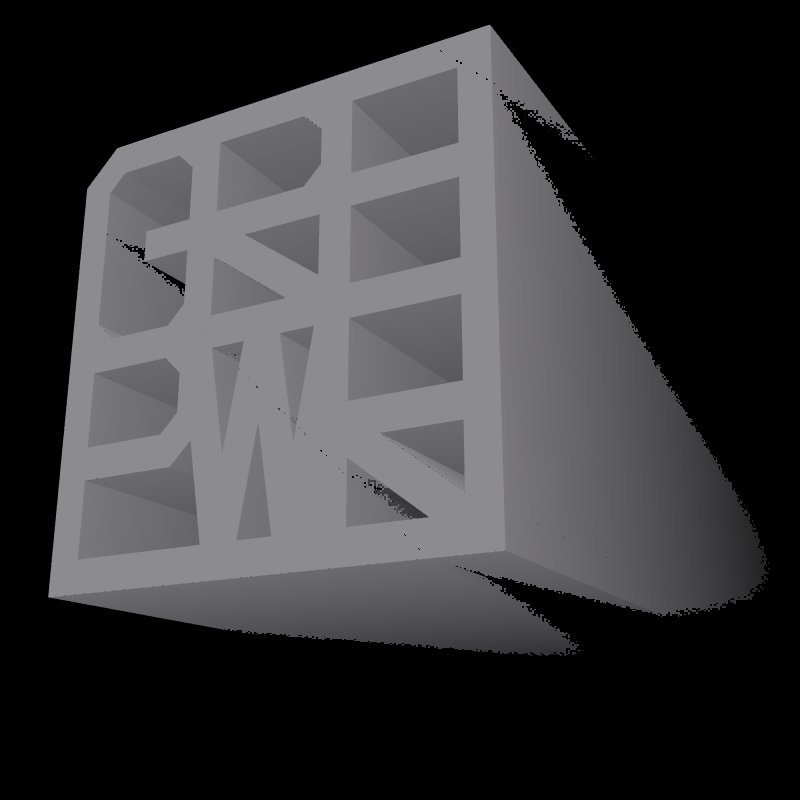
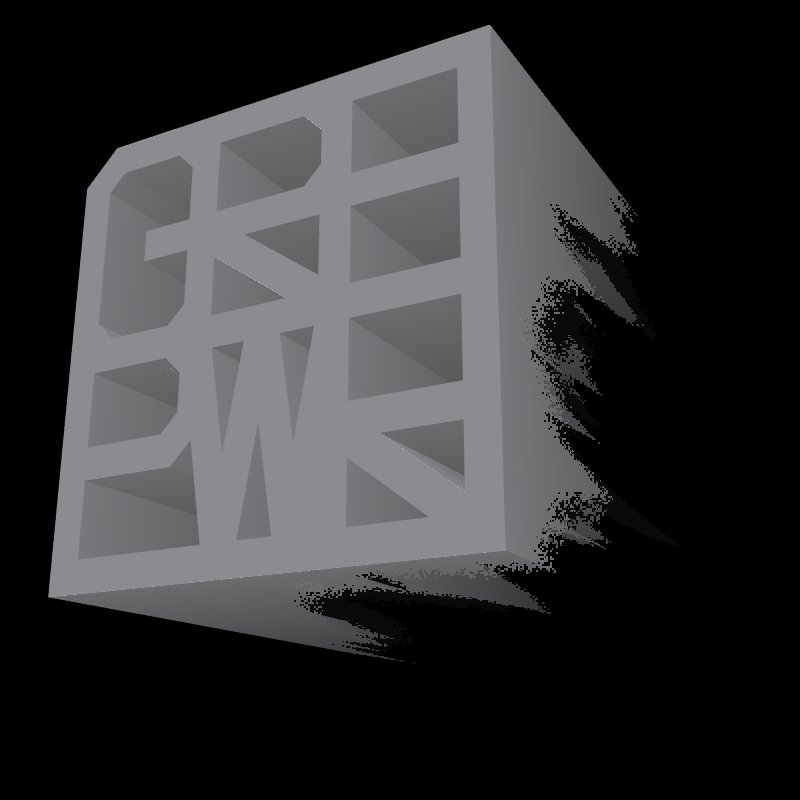
extrude: the tail is cut by ridged noise only; the function buttons are gone; poster reshot

diff --git a/src/extrude/main.ts b/src/extrude/main.ts
@@ -1,8 +1,8 @@
 // EXTRUDE: the logo pulled out into a long grey solid, the way a 2023 story showed it — flat grey
 // faces, the body running far back and sinking into the black, its tail flickering: the far end is
-// cut by a moving field, |sin| of a diagonal wave against a threshold that drifts with time (the
-// same function the old emboss shader cut its layers with), and the cut edge shivers a little every
-// frame. A finger (or the mouse) turns it a little; let go and it eases back to its pose.
+// cut by a moving field, the ridges of drifting noise (lightning-like veins), and the cut edge
+// shivers a little every frame. A finger (or the mouse) turns it a little; let go and it eases back
+// to its pose.
 // A tap presses material through the die: a swell of the cross-section, lit, runs from the face to
 // the end, and the tail shoots out to its full length behind it before the cut eats it back.
 //
@@ -14,31 +14,6 @@ import { mergeBufferGeometries } from 'three/examples/jsm/utils/BufferGeometryUt
 import { logoBars } from '../core/logo-bars'
 import { LOGO_STROKE } from '../core/logo-path'
 import './extrude.css'
-
-// --- the tail's function: picked from the row under the picture, kept in the address (?f=) --------
-const FNS = ['sin', 'plasma', 'fbm', 'warp', 'cells', 'ridge', 'tan'] as const
-const fromUrl = new URLSearchParams(location.search).get('f')
-let fnIndex = Math.max(0, FNS.indexOf((fromUrl ?? 'sin') as (typeof FNS)[number]))
-const picker = document.getElementById('fn') as HTMLElement
-function renderPicker() {
-  picker.replaceChildren(
-    ...FNS.map((name, i) => {
-      const b = document.createElement('button')
-      b.type = 'button'
-      b.textContent = name
-      b.setAttribute('aria-pressed', String(i === fnIndex))
-      b.addEventListener('click', () => {
-        fnIndex = i
-        const q = new URLSearchParams(location.search)
-        q.set('f', name)
-        history.replaceState(null, '', `${location.pathname}?${q}`)
-        renderPicker()
-      })
-      return b
-    }),
-  )
-}
-renderPicker()
 
 const LOOK = {
   /** Mark width as a share of the screen width: phone / desktop. */
@@ -91,7 +66,6 @@ const mat = new THREE.ShaderMaterial({
     far: { value: LOOK.far },
     depth: { value: D },
     time: { value: 0 },
-    fn: { value: 0 },
     pulse: { value: 99 }, // seconds since the last tap
   },
   side: THREE.DoubleSide,
@@ -124,76 +98,27 @@ const mat = new THREE.ShaderMaterial({
     varying float vDepth;
     varying vec2 vXY;
     varying float vSwell;
-    uniform float face, sideLo, sideHi, far, time, fn, pulse;
+    uniform float face, sideLo, sideHi, far, time, pulse;
 
     float hash(vec2 p) { return fract(sin(dot(p, vec2(127.1, 311.7))) * 43758.5453); }
-    vec2 hash2(vec2 p) {
-      return fract(sin(vec2(dot(p, vec2(127.1, 311.7)), dot(p, vec2(269.5, 183.3)))) * 43758.5453);
-    }
     float vnoise(vec2 p) {
       vec2 i = floor(p), f = fract(p);
       vec2 u = f * f * (3.0 - 2.0 * f);
       return mix(mix(hash(i), hash(i + vec2(1, 0)), u.x), mix(hash(i + vec2(0, 1)), hash(i + vec2(1, 1)), u.x), u.y);
     }
-    float fbm(vec2 p) {
-      float a = 0.5, s = 0.0;
-      for (int i = 0; i < 5; i++) { s += a * vnoise(p); p = mat2(1.6, 1.2, -1.2, 1.6) * p; a *= 0.5; }
-      return s / 0.97;
-    }
 
-    // How far back the body reaches at this point of the mark (0 = the face, 1 = the full length).
+    // How far back the body reaches at this point of the mark (0 = the face, 1 = the full length):
+    // the creases of drifting noise, 1 - |n| over four octaves, cubed — thin bright veins with
+    // torn, branching edges, like lightning.
     float reachAt(vec2 p, float t) {
-      if (fn < 0.5) {
-        // sin: a diagonal wave, |sin|, swung by a slower cross wave
-        float w = sin((p.x + p.y) * 3.1 + t * 1.4);
-        float c = sin((p.x - p.y) * 4.7 - t * 0.9) * 0.5 + 0.5;
-        return abs(w) * (0.5 + 0.5 * c);
-      }
-      if (fn < 1.5) {
-        // plasma: four waves at different angles and speeds, summed and folded
-        float v = sin(p.x * 5.0 + t) + sin(p.y * 6.3 - t * 1.3) + sin((p.x + p.y) * 4.1 + t * 0.7)
-          + sin(length(p - vec2(0.3 * sin(t * 0.5), 0.3 * cos(t * 0.4))) * 9.0 - t * 2.0);
-        return abs(sin(v * 1.3));
-      }
-      if (fn < 2.5) {
-        // fbm: five octaves of value noise drifting along
-        return smoothstep(0.25, 0.75, fbm(p * 3.0 + vec2(t * 0.35, -t * 0.2)));
-      }
-      if (fn < 3.5) {
-        // warp: noise sampled through noise (domain warping), slow smoke
-        vec2 q = vec2(fbm(p * 2.5 + t * 0.15), fbm(p * 2.5 + vec2(5.2, 1.3) - t * 0.12));
-        vec2 r = vec2(fbm(p * 2.5 + 4.0 * q + vec2(1.7, 9.2) + t * 0.2), fbm(p * 2.5 + 4.0 * q + vec2(8.3, 2.8)));
-        return smoothstep(0.2, 0.8, fbm(p * 2.5 + 4.0 * r));
-      }
-      if (fn < 4.5) {
-        // cells: moving Voronoi seeds; the body is long at the seeds and short at the borders
-        vec2 g = p * 5.0;
-        vec2 i = floor(g), f = fract(g);
-        float d1 = 8.0, d2 = 8.0;
-        for (int y = -1; y <= 1; y++) for (int x = -1; x <= 1; x++) {
-          vec2 o = vec2(float(x), float(y));
-          vec2 h = hash2(i + o);
-          vec2 c = o + 0.5 + 0.45 * sin(t * 0.8 + 6.2831 * h) - f;
-          float d = dot(c, c);
-          if (d < d1) { d2 = d1; d1 = d; } else if (d < d2) d2 = d;
-        }
-        return smoothstep(0.0, 0.6, sqrt(d2) - sqrt(d1));
-      }
-      if (fn < 5.5) {
-        // ridge: the creases of noise, 1 - |n|, stacked: thin bright veins like lightning
-        float s = 0.0, a = 0.6;
-        vec2 q = p * 2.2 + vec2(t * 0.25, t * 0.1);
-        for (int i = 0; i < 4; i++) { s += a * (1.0 - abs(vnoise(q) * 2.0 - 1.0)); q = mat2(1.6, 1.2, -1.2, 1.6) * q; a *= 0.5; }
-        return pow(clamp(s / 1.1, 0.0, 1.0), 3.0);
-      }
-      // tan: tangent of a travelling wave, clamped: long calm stretches broken by sudden jumps
-      float v = tan((p.x * 1.7 + p.y * 2.3) * 2.0 + t * 0.9) * 0.25 + sin(p.y * 7.0 - t * 1.7) * 0.15;
-      return clamp(abs(v), 0.0, 1.0);
+      float s = 0.0, a = 0.6;
+      vec2 q = p * 2.2 + vec2(t * 0.25, t * 0.1);
+      for (int i = 0; i < 4; i++) { s += a * (1.0 - abs(vnoise(q) * 2.0 - 1.0)); q = mat2(1.6, 1.2, -1.2, 1.6) * q; a *= 0.5; }
+      return pow(clamp(s / 1.1, 0.0, 1.0), 3.0);
     }
 
     void main() {
-      // The tail: where the body ends is a field, not a plane (one of the functions above, picked
-      // below the picture); the cut edge gets a per-pixel jitter re-rolled twelve times a second, so
+      // The tail: where the body ends is a field, not a plane (reachAt above); the cut edge gets a per-pixel jitter re-rolled twelve times a second, so
       // it flickers like the story did. Near zero the cut reaches into the face.
       float reach = 0.02 + 0.8 * reachAt(vXY, time);
       // behind the running swell the material is pushed out whole, then the cut eats back into it
@@ -289,7 +214,6 @@ function frame() {
   pivot.rotation.set(rad(LOOK.rest.x + pose.x + sway.x), rad(LOOK.rest.y + pose.y + sway.y), 0)
   pivot.position.set(-centre.x, -centre.y, 0)
   mat.uniforms.time.value = t
-  mat.uniforms.fn.value = fnIndex
   mat.uniforms.pulse.value = (performance.now() - tapAt) / 1000
   renderer.render(scene, camera)
   requestAnimationFrame(frame)

diff --git a/dist/assets/index.66b11da8.js b/dist/assets/index.66b11da8.js
@@ -1,0 +1,70 @@
+import"./modulepreload-polyfill.b7f2da20.js";import"./embed.d17cc095.js";import{q as X,v as E,z as F,ao as G,X as D,ap as P,aq as Y,an as q,U as A,w as C,ar as I,K as N,as as H}from"./vendor.008209b9.js";import{l as R}from"./logo-bars.36bf556b.js";import{b as g}from"./logo-path.248ebb5a.js";const t={markXs:.5,markLg:.22,depth:2.6,rest:{x:-20,y:-32},reach:24,dragGain:.12,face:.56,side:[.36,.62],far:.06},i=document.getElementById("extrude"),v=new X({canvas:i,antialias:!0});v.setPixelRatio(Math.min(window.devicePixelRatio,2));v.setClearColor(0,1);const k=new E,o=new F(38,1,1,1e5),c=516*t.depth,_=R().flatMap(e=>{const n=Math.hypot(e.bx-e.ax,e.by-e.ay),h=u=>(u.rotateZ(-Math.atan2(e.by-e.ay,e.bx-e.ax)),u.translate((e.ax+e.bx)/2-300,300-(e.ay+e.by)/2,0),u),f=new G(n,g,c-1,1,1,64);f.translate(0,0,-(c-1)/2-1);const m=new D(n,g);return[h(f.toNonIndexed()),h(m.toNonIndexed())]}),O=P(_),x=new Y({uniforms:{face:{value:t.face},sideLo:{value:t.side[0]},sideHi:{value:t.side[1]},far:{value:t.far},depth:{value:c},time:{value:0},pulse:{value:99}},side:q,vertexShader:`
+    varying vec3 vN;
+    varying float vFace;
+    varying float vDepth;
+    varying vec2 vXY;
+    varying float vSwell;
+    uniform float depth, pulse;
+    // where the swell is along the body (0 = face, 1 = the end) and how strong, after a tap
+    float swellAt(float d) {
+      float at = pulse * 0.9 - 0.08;
+      float k = exp(-pow((d - at) / 0.07, 2.0));
+      return k * exp(-pulse * 0.9) * step(pulse, 3.0);
+    }
+    void main() {
+      vXY = position.xy / 516.0; // the mark's width = 1
+      vN = normalize(mat3(modelMatrix) * normal);
+      vFace = step(0.99, normal.z);
+      vDepth = clamp(-position.z / depth, 0.0, 1.0);
+      vSwell = swellAt(vDepth);
+      vec3 p = position;
+      p.xy *= 1.0 + 0.16 * vSwell; // the section swells about the mark's centre
+      gl_Position = projectionMatrix * modelViewMatrix * vec4(p, 1.0);
+    }`,fragmentShader:`
+    varying vec3 vN;
+    varying float vFace;
+    varying float vDepth;
+    varying vec2 vXY;
+    varying float vSwell;
+    uniform float face, sideLo, sideHi, far, time, pulse;
+
+    float hash(vec2 p) { return fract(sin(dot(p, vec2(127.1, 311.7))) * 43758.5453); }
+    float vnoise(vec2 p) {
+      vec2 i = floor(p), f = fract(p);
+      vec2 u = f * f * (3.0 - 2.0 * f);
+      return mix(mix(hash(i), hash(i + vec2(1, 0)), u.x), mix(hash(i + vec2(0, 1)), hash(i + vec2(1, 1)), u.x), u.y);
+    }
+
+    // How far back the body reaches at this point of the mark (0 = the face, 1 = the full length):
+    // the creases of drifting noise, 1 - |n| over four octaves, cubed \u2014 thin bright veins with
+    // torn, branching edges, like lightning.
+    float reachAt(vec2 p, float t) {
+      float s = 0.0, a = 0.6;
+      vec2 q = p * 2.2 + vec2(t * 0.25, t * 0.1);
+      for (int i = 0; i < 4; i++) { s += a * (1.0 - abs(vnoise(q) * 2.0 - 1.0)); q = mat2(1.6, 1.2, -1.2, 1.6) * q; a *= 0.5; }
+      return pow(clamp(s / 1.1, 0.0, 1.0), 3.0);
+    }
+
+    void main() {
+      // The tail: where the body ends is a field, not a plane (reachAt above); the cut edge gets a per-pixel jitter re-rolled twelve times a second, so
+      // it flickers like the story did. Near zero the cut reaches into the face.
+      float reach = 0.02 + 0.8 * reachAt(vXY, time);
+      // behind the running swell the material is pushed out whole, then the cut eats back into it
+      float pushed = clamp(pulse * 0.9, 0.0, 1.0) * (1.0 - smoothstep(1.2, 2.6, pulse));
+      reach = max(reach, pushed);
+      float shiver = (hash(floor(gl_FragCoord.xy / 2.0) + floor(time * 12.0)) - 0.5) * 0.05;
+      if (vDepth > reach + shiver) discard;
+
+      // inside of the cut: the hollow of the walls, dark
+      if (!gl_FrontFacing) { gl_FragColor = vec4(vec3(far * 0.6), 1.0); return; }
+
+      vec3 n = normalize(vN);
+      // a soft light from the upper left, in front: the faces turned to it read lighter
+      float l = dot(n, normalize(vec3(-0.5, 0.7, 0.6))) * 0.5 + 0.5;
+      float g = mix(sideLo, sideHi, l);
+      g = mix(g, face, vFace);
+      // the body sinks into the dark towards its far end
+      g = mix(g, far, pow(vDepth / 0.8, 0.9) * 0.85);
+      g = min(1.0, g + vSwell * 0.45); // the swell catches the light
+      gl_FragColor = vec4(vec3(g) * vec3(0.98, 0.97, 1.0), 1.0);
+    }`}),y=new A(O,x);y.position.z=c*.3;const p=new C;p.add(y);k.add(p);const d=I.degToRad;let r={x:0,y:0},s={x:0,y:0},a=null;const b=e=>Math.max(-t.reach,Math.min(t.reach,e));i.addEventListener("pointerdown",e=>{a={id:e.pointerId,x:e.clientX,y:e.clientY,ox:r.x,oy:r.y},i.setPointerCapture(e.pointerId)});i.addEventListener("pointermove",e=>{!a||e.pointerId!==a.id||(r.y=b(a.oy+(e.clientX-a.x)*t.dragGain),r.x=b(a.ox+(e.clientY-a.y)*t.dragGain))});let M=-99,l=null;i.addEventListener("pointerdown",e=>l={x:e.clientX,y:e.clientY,t:performance.now()});const L=e=>{a&&e.pointerId===a.id&&(a=null),l&&e.type==="pointerup"&&Math.hypot(e.clientX-l.x,e.clientY-l.y)<12&&performance.now()-l.t<350&&(M=performance.now()),l=null};i.addEventListener("pointerup",L);i.addEventListener("pointercancel",L);function z(){const e=window.innerWidth,n=window.innerHeight;v.setSize(e,n,!1),o.aspect=e/n;const h=e*(e<=768?t.markXs:t.markLg),m=516/h*e/o.aspect;o.position.set(0,0,m/2/Math.tan(d(o.fov/2))),o.near=1,o.far=o.position.z+c*3,o.updateProjectionMatrix()}window.addEventListener("resize",z);z();const w=new N(0,0,-c*.22).add(y.position);w.applyEuler(new H(d(t.rest.x),d(t.rest.y),0));const B=performance.now();function S(){const e=(performance.now()-B)/1e3;a||(r.x*=.96,r.y*=.96),s.x+=(r.x-s.x)*.12,s.y+=(r.y-s.y)*.12;const n={x:Math.sin(e*.35)*2,y:Math.sin(e*.27+1)*3};p.rotation.set(d(t.rest.x+s.x+n.x),d(t.rest.y+s.y+n.y),0),p.position.set(-w.x,-w.y,0),x.uniforms.time.value=e,x.uniforms.pulse.value=(performance.now()-M)/1e3,v.render(k,o),requestAnimationFrame(S)}S();

diff --git a/dist/extrude/index.html b/dist/extrude/index.html
@@ -23,18 +23,17 @@
     <meta name="twitter:title" content="GRBPWR — Extrude" />
     <meta name="twitter:description" content="Generative studies of the GRBPWR mark." />
     <meta name="twitter:image" content="https://art.grbpwr.com/og.png" />
-  <script type="module" crossorigin src="/assets/index.9c98b707.js"></script>
+  <script type="module" crossorigin src="/assets/index.66b11da8.js"></script>
   <link rel="modulepreload" href="/assets/modulepreload-polyfill.b7f2da20.js">
   <link rel="modulepreload" href="/assets/embed.d17cc095.js">
   <link rel="modulepreload" href="/assets/vendor.008209b9.js">
   <link rel="modulepreload" href="/assets/logo-path.248ebb5a.js">
   <link rel="modulepreload" href="/assets/logo-bars.36bf556b.js">
-  <link rel="stylesheet" href="/assets/index.5102b6c7.css">
+  <link rel="stylesheet" href="/assets/index.f151df18.css">
 </head>
 
 <body>
     <canvas id="extrude" aria-label="the GRBPWR logo as a long grey solid fading into the dark; drag to turn it a little"></canvas>
-    <nav id="fn" class="fn" aria-label="the tail's function"></nav>
     
 </body>
 

diff --git a/src/extrude/extrude.css b/src/extrude/extrude.css
@@ -19,33 +19,3 @@ canvas:active {
     cursor: grabbing;
 }
 
-/* The row of tail functions under the picture. */
-.fn {
-    position: fixed;
-    left: 0;
-    right: 0;
-    bottom: 16px;
-    display: flex;
-    flex-wrap: wrap;
-    justify-content: center;
-    gap: 6px;
-    padding: 0 16px;
-}
-
-.fn button {
-    height: 28px;
-    padding: 0 10px;
-    border: 1px solid #555;
-    border-radius: 0;
-    background: #000;
-    color: #aaa;
-    font: 12px/1 ui-monospace, monospace;
-    text-transform: uppercase;
-    cursor: pointer;
-}
-
-.fn button[aria-pressed='true'] {
-    background: #ddd;
-    border-color: #ddd;
-    color: #000;
-}

diff --git a/extrude/index.html b/extrude/index.html
@@ -27,7 +27,6 @@
 
 <body>
     <canvas id="extrude" aria-label="the GRBPWR logo as a long grey solid fading into the dark; drag to turn it a little"></canvas>
-    <nav id="fn" class="fn" aria-label="the tail's function"></nav>
     <script type="module" src="/src/extrude/main.ts"></script>
 </body>
 

diff --git a/dist/assets/index.f151df18.css b/dist/assets/index.f151df18.css
@@ -1,0 +1,1 @@
+html,body{margin:0;height:100%;overflow:hidden;-ms-scroll-chaining:none;overscroll-behavior:none;background:#000}canvas{display:block;width:100vw;height:100vh;touch-action:none;cursor:-webkit-grab;cursor:grab}canvas:active{cursor:-webkit-grabbing;cursor:grabbing}
